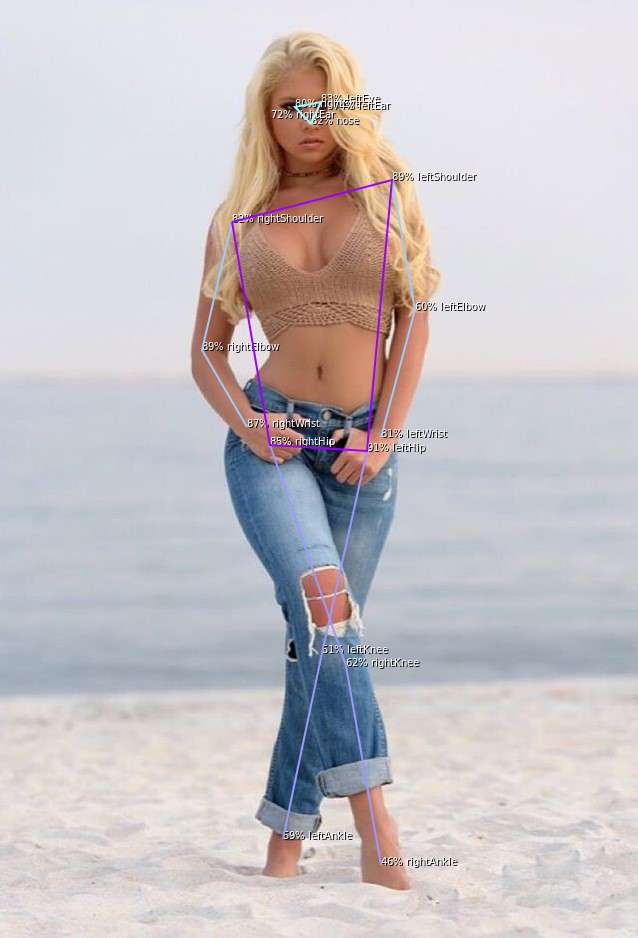
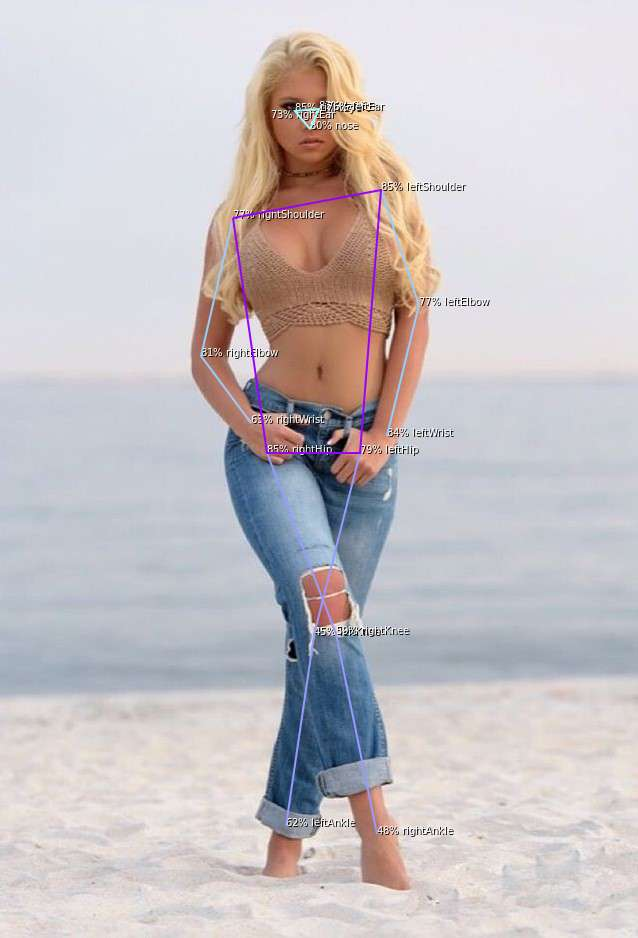
update

Changed region(s): [[0.2978, 0.1855, 0.7743, 0.9275], [0.4467, 0.0928, 0.6254, 0.1546], [0.4467, 0.5565, 0.4765, 0.5874]]

diff --git a/movenet.js b/movenet.js
@@ -7,9 +7,9 @@ const canvas = require('canvas');
 
 const modelOptions = {
   // modelPath: 'file://model-lightning3/movenet-lightning.json',
-  // modelPath: 'file://model-lightning4/movenet-lightning.json',
+  modelPath: 'file://model-lightning4/movenet-lightning.json',
   // modelPath: 'file://model-thunder3/movenet-thunder.json',
-  modelPath: 'file://model-thunder4/movenet-thunder.json',
+  // modelPath: 'file://model-thunder4/movenet-thunder.json',
 };
 
 const bodyParts = ['nose', 'leftEye', 'rightEye', 'leftEar', 'rightEar', 'leftShoulder', 'rightShoulder', 'leftElbow', 'rightElbow', 'leftWrist', 'rightWrist', 'leftHip', 'rightHip', 'leftKnee', 'rightKnee', 'leftAnkle', 'rightAnkle'];
@@ -86,7 +86,7 @@ async function loadImage(fileName, inputSize) {
 async function processResults(res, img) {
   const data = res.arraySync();
   log.info('Tensor output', res.shape);
-  log.data(data);
+  // log.data(data);
   res.dispose();
   const kpt = data[0][0];
   const parts = [];
@@ -122,7 +122,7 @@ async function main() {
 
   // load image and get approprite tensor for it
   let inputSize = Object.values(model.modelSignature['inputs'])[0].tensorShape.dim[2].size;
-  if (inputSize === -1) inputSize = 640;
+  if (inputSize === -1) inputSize = 256;
   const imageFile = process.argv.length > 2 ? process.argv[2] : null;
   if (!imageFile || !fs.existsSync(imageFile)) {
     log.error('Specify a valid image file');

diff --git a/movenet-multipose.js b/movenet-multipose.js
@@ -86,12 +86,13 @@ async function loadImage(fileName, inputSize) {
 async function processResults(res, img) {
   const data = res.arraySync();
   log.info('Tensor output', res.shape);
-  log.data(data);
+  // log.data(data);
   res.dispose();
   const people = [];
   for (let p = 0; p < data[0].length; p++) {
     const kpt = data[0][p];
     const score = kpt[51 + 4];
+    // eslint-disable-next-line no-continue
     if (score < modelOptions.minConfidence) continue;
     const parts = [];
     for (let i = 0; i < 17; i++) {
@@ -112,7 +113,7 @@ async function processResults(res, img) {
       score,
       boxRaw,
       box: boxRaw.map((a) => Math.trunc(a * img.inputShape[1])),
-      parts
+      parts,
     });
   }
   return people;
